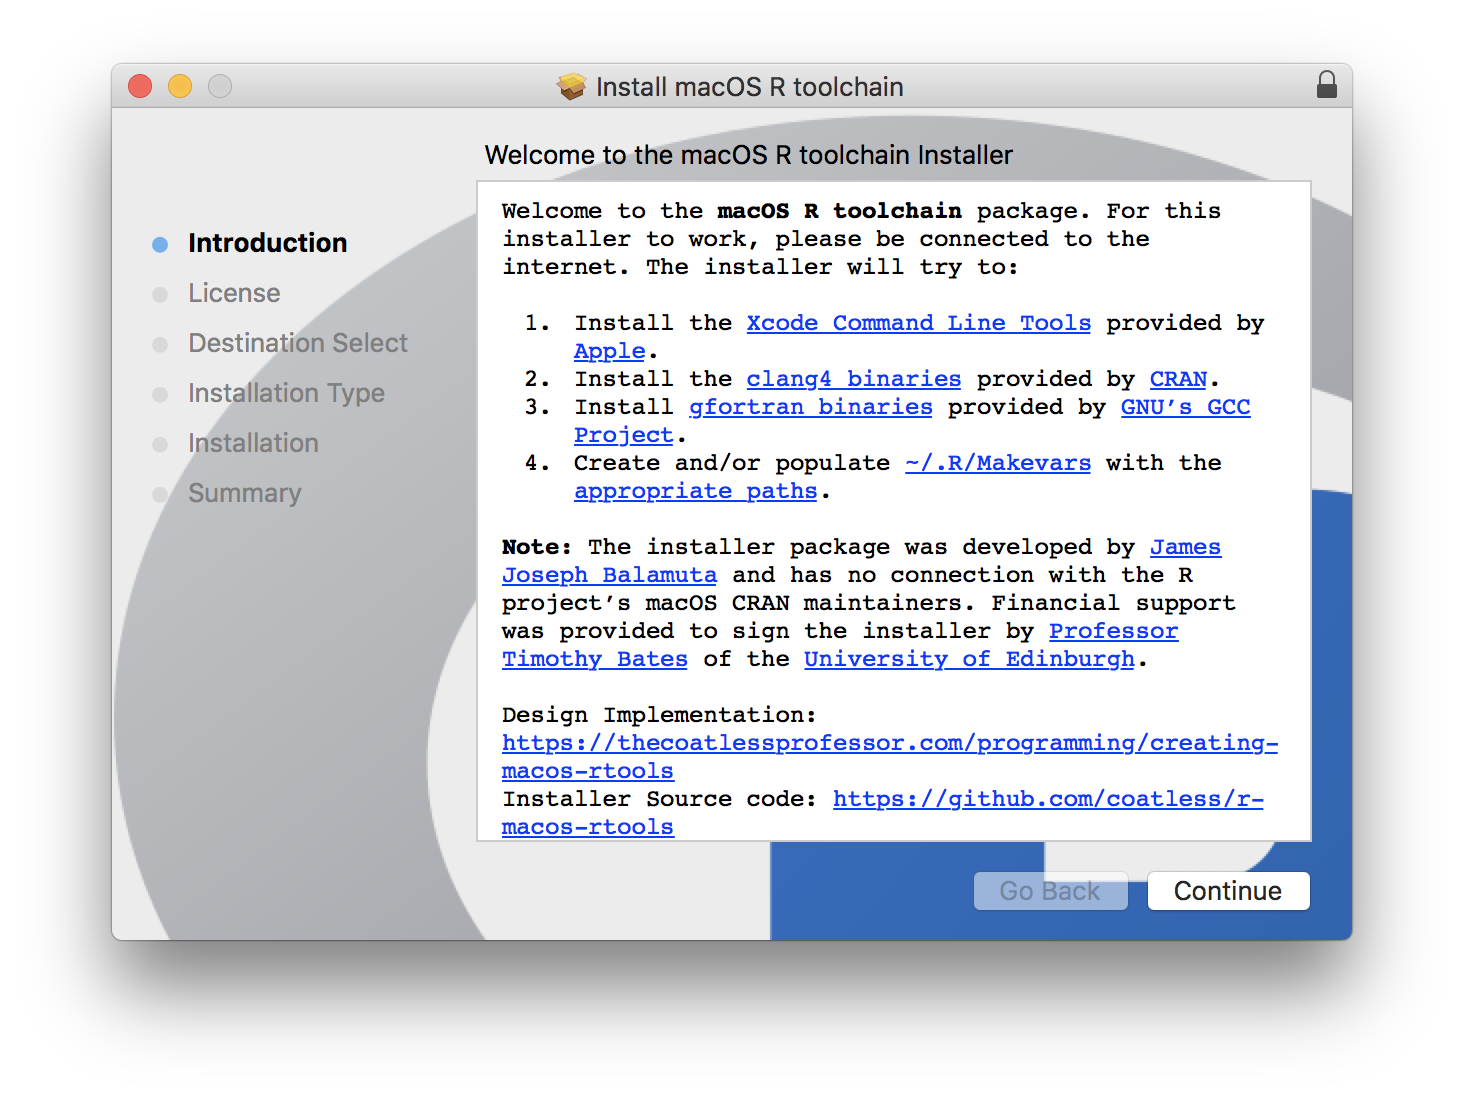
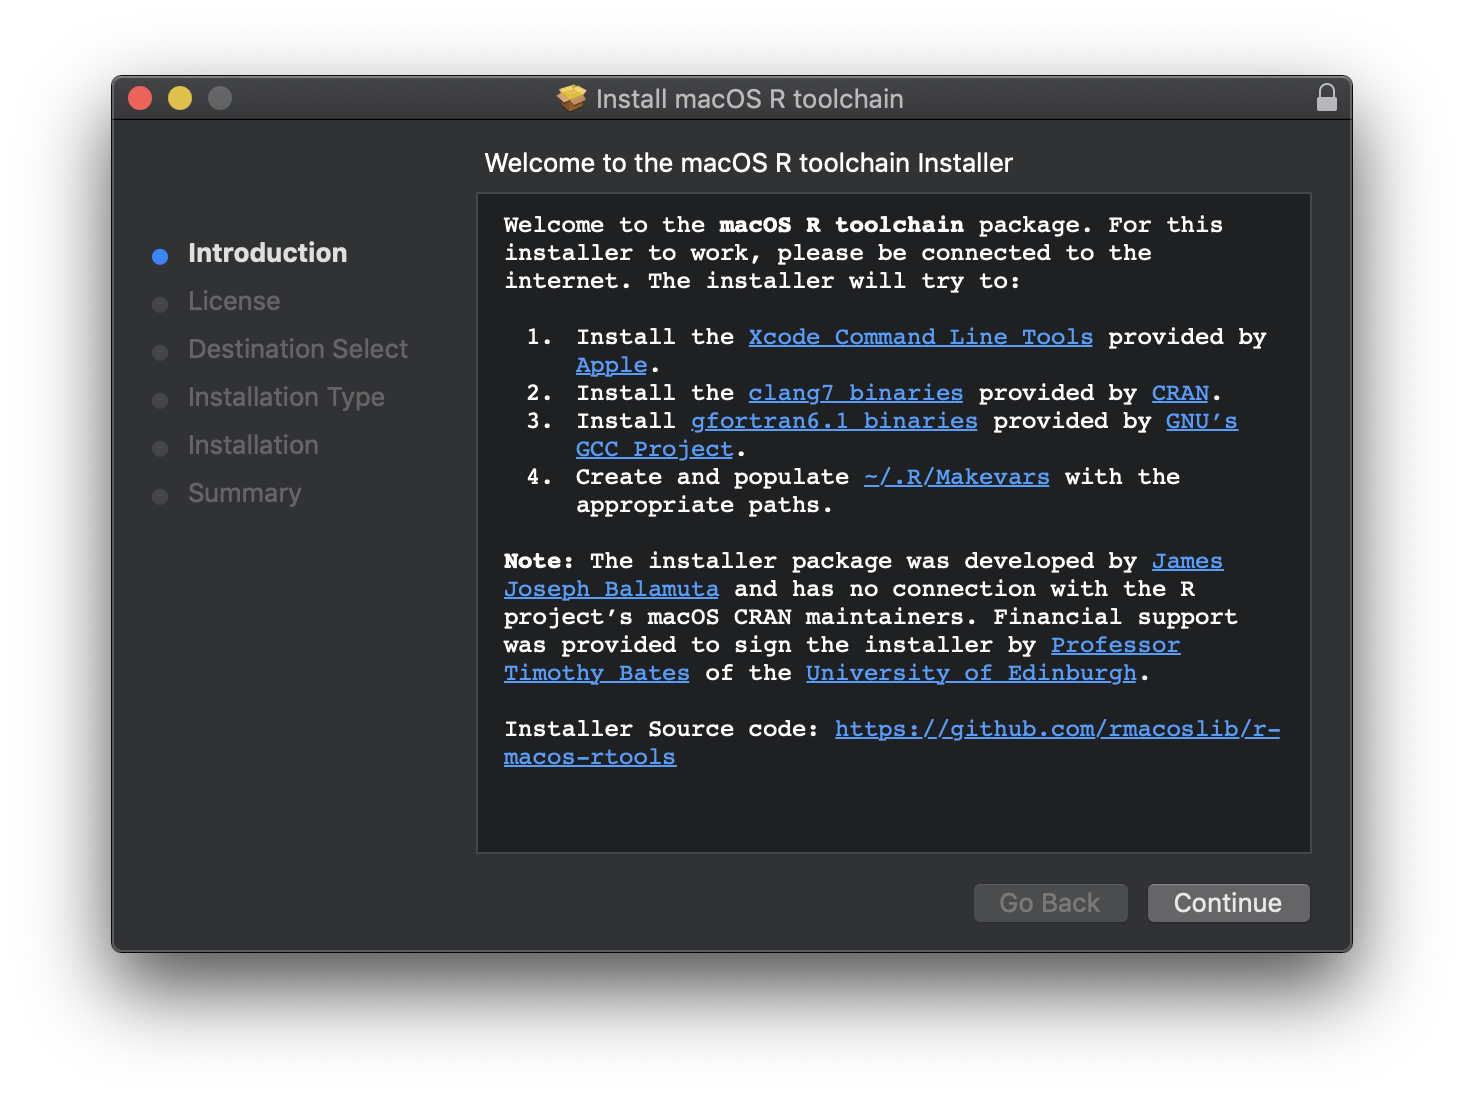
New screenshots for README (#20)
* To dark mode we go...

* Fix version issue

diff --git a/README.md b/README.md
@@ -83,7 +83,7 @@ Below is an abridged version of the actions of each file provided.
 		and installs it using `softwareupdate`.
       - Downloads the `clang-7.0.0.pkg` from
        <https://cran.r-project.org/bin/macosx/tools/> and installs it into `/` directory
-	    so that it is installed on `/usr/local/clang4`
+	    so that it is installed on `/usr/local/clang7`
       - Downloads the gfortran binary 6.1 from 
         <https://cran.r-project.org/bin/macosx/tools/gfortran-6.1.pkg>, and 
         and installs it into `/usr/local/gfortran`.
